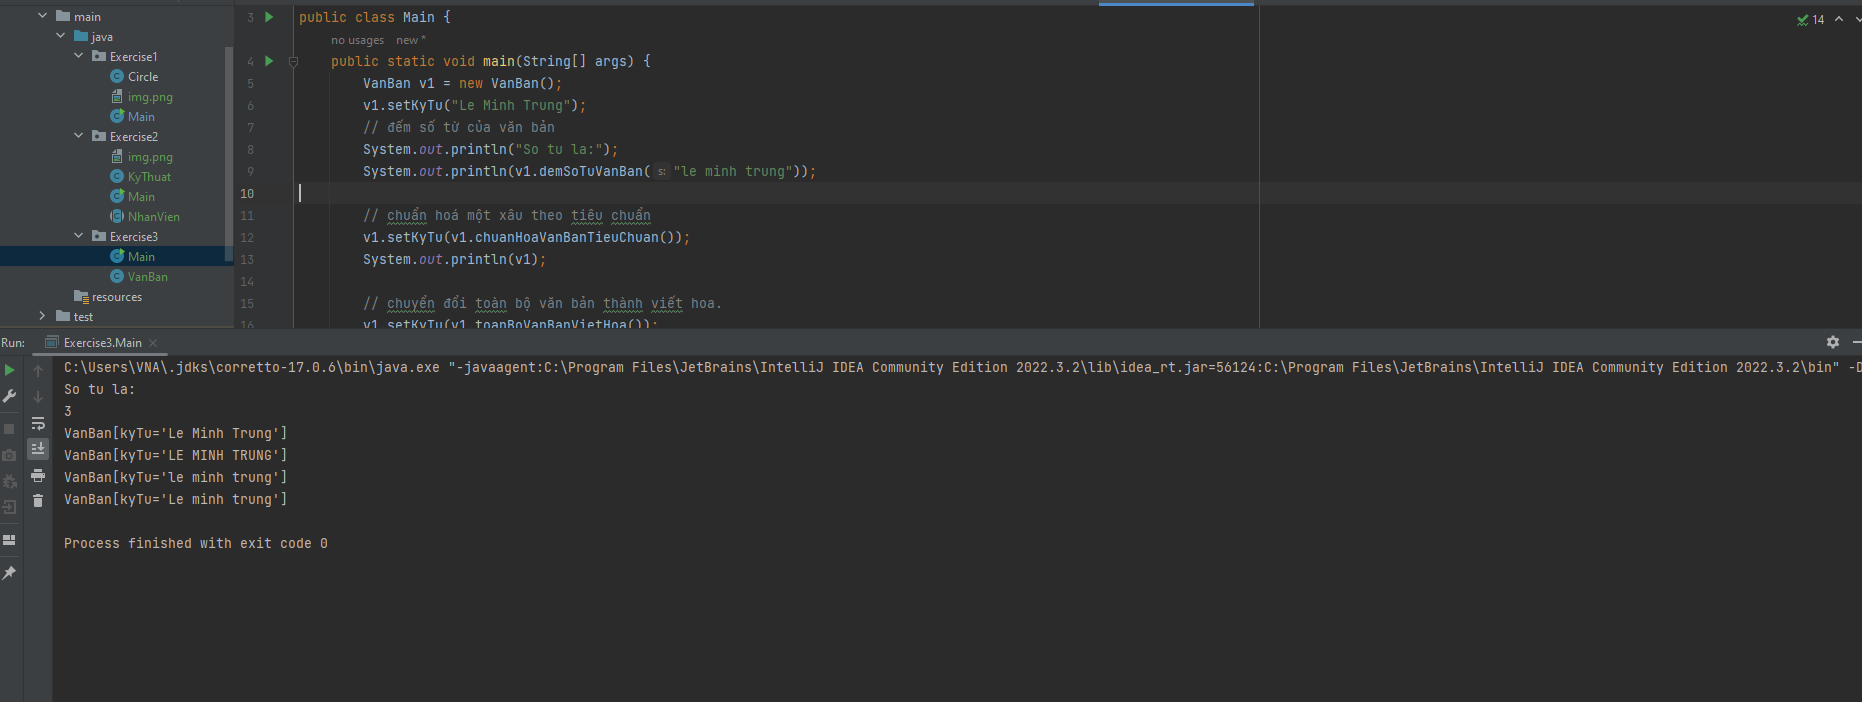
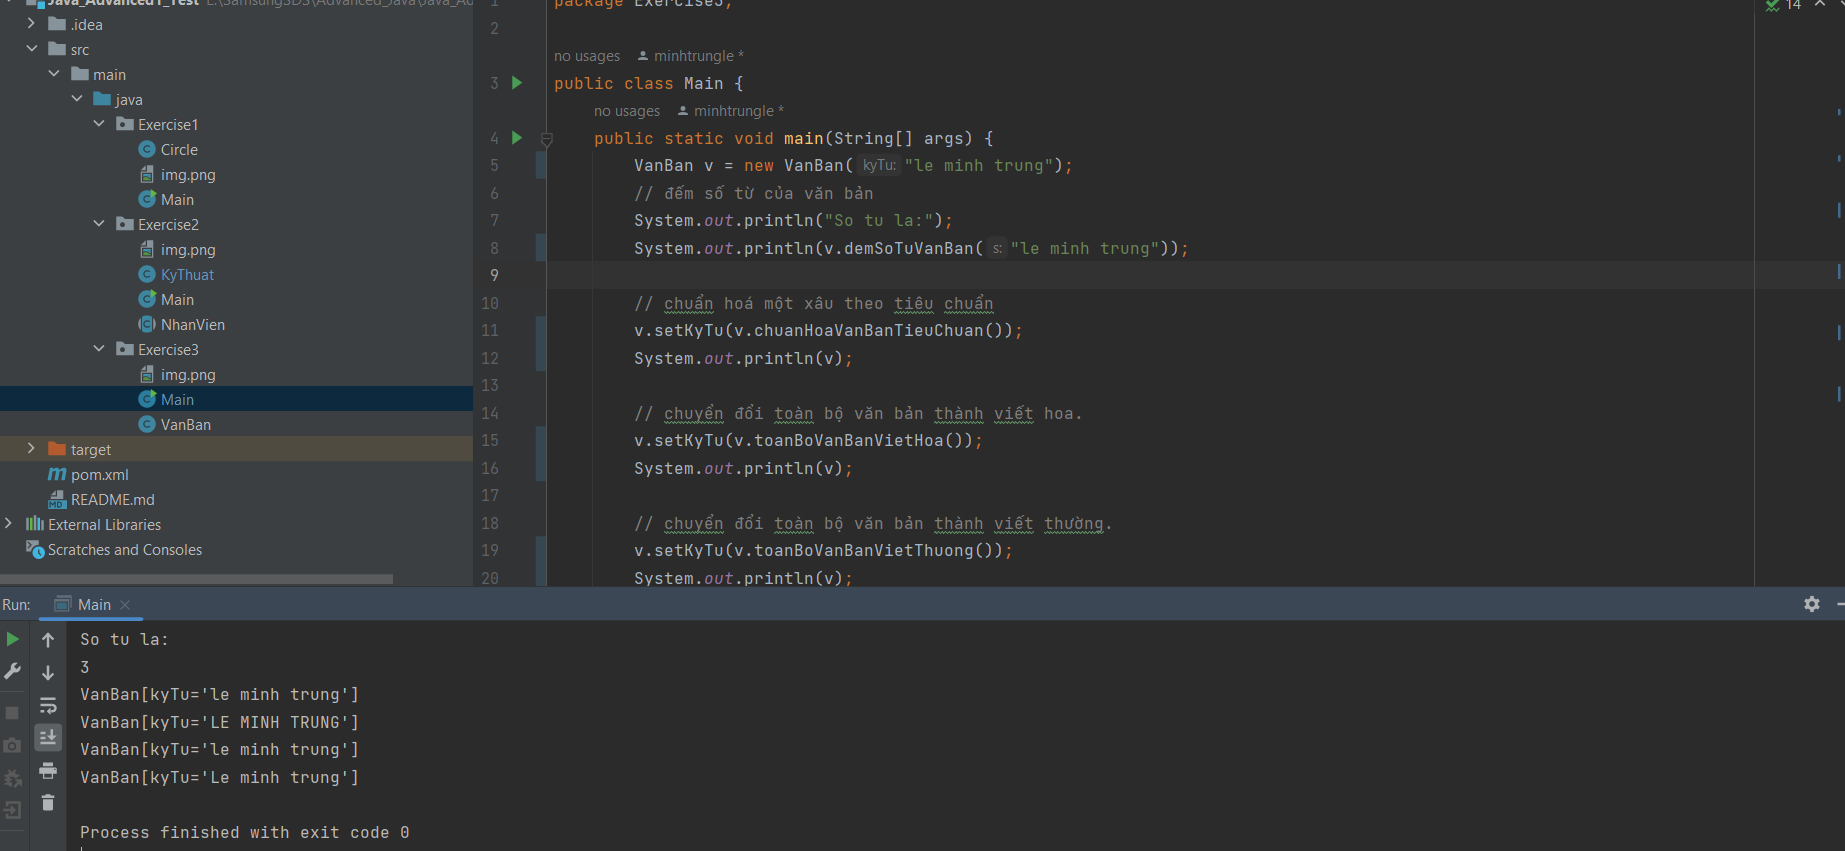
Update Ex2, 3

diff --git a/src/main/java/Exercise3/Main.java b/src/main/java/Exercise3/Main.java
@@ -2,27 +2,26 @@ package Exercise3;
 
 public class Main {
     public static void main(String[] args) {
-        VanBan v1 = new VanBan();
-        v1.setKyTu("Le Minh Trung");
+        VanBan v = new VanBan("le minh trung");
         // đếm số từ của văn bản
         System.out.println("So tu la:");
-        System.out.println(v1.demSoTuVanBan("le minh trung"));
+        System.out.println(v.demSoTuVanBan("le minh trung"));
 
         // chuẩn hoá một xâu theo tiêu chuẩn
-        v1.setKyTu(v1.chuanHoaVanBanTieuChuan());
-        System.out.println(v1);
+        v.setKyTu(v.chuanHoaVanBanTieuChuan());
+        System.out.println(v);
 
         // chuyển đổi toàn bộ văn bản thành viết hoa.
-        v1.setKyTu(v1.toanBoVanBanVietHoa());
-        System.out.println(v1);
+        v.setKyTu(v.toanBoVanBanVietHoa());
+        System.out.println(v);
 
         // chuyển đổi toàn bộ văn bản thành viết thường.
-        v1.setKyTu(v1.toanBoVanBanVietThuong());
-        System.out.println(v1);
+        v.setKyTu(v.toanBoVanBanVietThuong());
+        System.out.println(v);
 
         // viết hoa chữ cái đầu tiên của mỗi từ trong văn bản.
-        v1.setKyTu(v1.vietHoaChuCaiDau("le minh trung"));
-        System.out.println(v1);
+        v.setKyTu(v.vietHoaChuCaiDau("le minh trung"));
+        System.out.println(v);
     }
 }
 

diff --git a/src/main/java/Exercise2/KyThuat.java b/src/main/java/Exercise2/KyThuat.java
@@ -10,8 +10,8 @@ public class KyThuat extends NhanVien{
         super(maNhanVien, hoTen);
     }
 
-    public KyThuat(String maNhanVien, String hoTen, String namSinh, String address, String chuyenNghanh) {
-        super(maNhanVien, hoTen, namSinh, address);
+    public KyThuat(String maNhanVien, String hoTen, String namSinh, String diaChi, String chuyenNghanh) {
+        super(maNhanVien, hoTen, namSinh, diaChi);
         this.chuyenNghanh = chuyenNghanh;
     }
 
